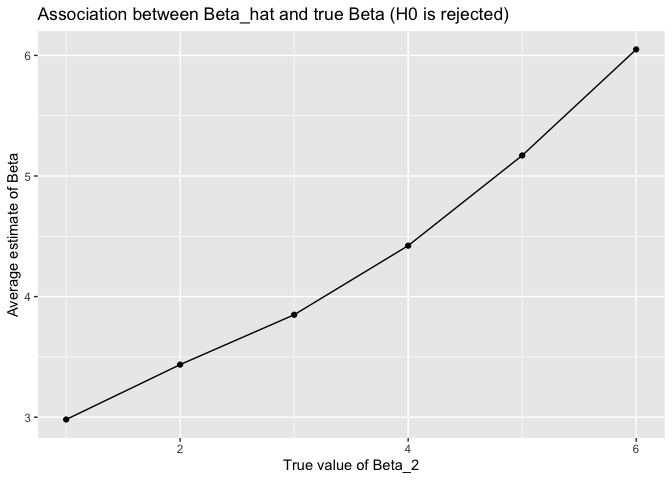
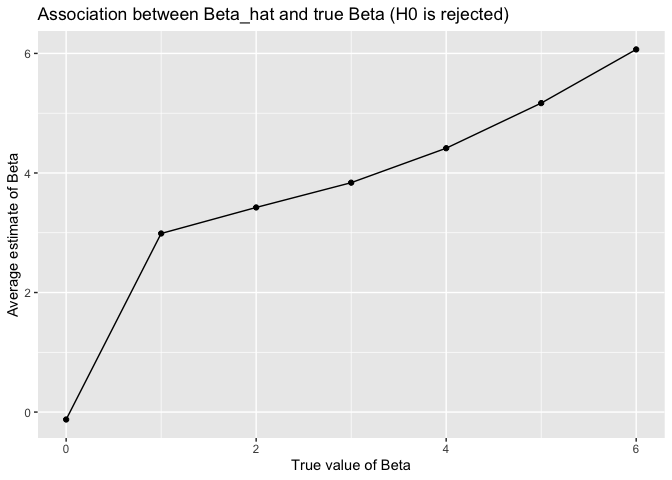
including true beta value of 0 in the second simulation results, updating plots and descriptions, changing values for when H0 is rejected to <0.05

diff --git a/hw5_jo2570.md b/hw5_jo2570.md
@@ -30,7 +30,24 @@ return(x)
 }
 
 iris_with_missing = map_df(iris_with_missing, replace_values)
+
+iris_with_missing
 ```
+
+    ## # A tibble: 150 x 5
+    ##    sepal_length sepal_width petal_length petal_width species
+    ##           <dbl>       <dbl>        <dbl>       <dbl> <chr>  
+    ##  1          5.1         3.5          1.4         0.2 setosa 
+    ##  2          4.9         3            1.4         0.2 setosa 
+    ##  3          4.7         3.2          1.3         0.2 setosa 
+    ##  4          4.6         3.1          1.5         1   setosa 
+    ##  5          5           3.6          1.4         0.2 setosa 
+    ##  6          5.4         3.9          1.7         0.4 setosa 
+    ##  7          6           3.4          1.4         0.3 setosa 
+    ##  8          5           3.4          1.5         0.2 setosa 
+    ##  9          4.4         2.9          1.4         0.2 setosa 
+    ## 10          4.9         3.1          4           0.1 setosa 
+    ## # … with 140 more rows
 
 Problem 2:
 
@@ -113,11 +130,11 @@ sim_results
     ## 10  2.35      0.131
     ## # … with 9,990 more rows
 
-Repeating the step above for beta1 = 1, 2, 3, 4, 5, 6:
+Repeating the step above for beta1 = 0 and 1, 2, 3, 4, 5, 6:
 
 ``` r
 sim_results_2 = 
-  tibble(b1_2 = c(1,2,3,4,5,6)) %>% 
+  tibble(b1_2 = c(0,1,2,3,4,5,6)) %>% 
   mutate(
     output_lists = map(.x = b1_2, ~rerun(10000, sim_regression(b1 = .x))),
     estimate_dfs = map(output_lists, bind_rows)) %>% 
@@ -127,37 +144,38 @@ sim_results_2 =
 sim_results_2
 ```
 
-    ## # A tibble: 60,000 x 3
+    ## # A tibble: 70,000 x 3
     ##     b1_2  b1_hat p_value
     ##    <dbl>   <dbl>   <dbl>
-    ##  1     1  3.03    0.0247
-    ##  2     1  1.39    0.295 
-    ##  3     1  1.93    0.103 
-    ##  4     1  0.0151  0.990 
-    ##  5     1  0.111   0.944 
-    ##  6     1 -1.24    0.366 
-    ##  7     1  1.02    0.301 
-    ##  8     1  1.82    0.223 
-    ##  9     1  2.35    0.0765
-    ## 10     1  2.46    0.0966
-    ## # … with 59,990 more rows
+    ##  1     0  2.03     0.123
+    ##  2     0  0.390    0.767
+    ##  3     0  0.930    0.423
+    ##  4     0 -0.985    0.411
+    ##  5     0 -0.889    0.575
+    ##  6     0 -2.24     0.108
+    ##  7     0  0.0163   0.987
+    ##  8     0  0.819    0.579
+    ##  9     0  1.35     0.299
+    ## 10     0  1.46     0.317
+    ## # … with 69,990 more rows
 
 ``` r
 sim_results_2 %>% 
    mutate(
     p_value = as.numeric(case_when(
-      p_value <= 0.05 ~ "1",
-      p_value > 0.05 ~ "0"))) %>% 
+      p_value < 0.05 ~ "1",
+      p_value >= 0.05 ~ "0"))) %>% 
   group_by(b1_2) %>% 
   summarise(prop = mean(p_value)) %>%
-  ggplot(aes(x = b1_2, y = prop)) + geom_point() + geom_line() + labs(title = "Association between effect size and power", x = "True value of Beta_2", y = "Power of the test")
+  ggplot(aes(x = b1_2, y = prop)) + geom_point() + geom_line() + labs(title = "Association between effect size and power", x = "True value of Beta", y = "Power of the test")
 ```
 
 ![](hw5_jo2570_files/figure-gfm/unnamed-chunk-8-1.png)<!-- -->
 
 We see above that as the true value of beta increases, the proportion of
 times the null was rejected increases showing that as effect size
-increases the power of the test increases.
+increases the power of the test increases. The shape ofbthe graph is
+sigmoidal, but still shows a monotonic positive relationship.
 
 Creating a plot showing the association between average estimate of Beta
 and true Beta:
@@ -171,20 +189,27 @@ sim_results_2 %>%
 
 ![](hw5_jo2570_files/figure-gfm/unnamed-chunk-9-1.png)<!-- -->
 
+We see that when all values are included for the estimates value of beta
+and the true value have a perfectly positive linear relationship.
+
 Creating a plot showing the association between average estimate of Beta
 and true Beta only for values where the null is rejected:
 
 ``` r
 sim_results_2 %>%
-  filter(p_value <= 0.05) %>% 
+  filter(p_value < 0.05) %>% 
   group_by(b1_2) %>% 
   summarise(prop = mean(b1_hat)) %>%
-  ggplot(aes(x = b1_2, y = prop)) + geom_point() + geom_line() + labs(title = "Association between Beta_hat and true Beta (H0 is rejected)", x = "True value of Beta_2", y = "Average estimate of Beta")
+  ggplot(aes(x = b1_2, y = prop)) + geom_point() + geom_line() + labs(title = "Association between Beta_hat and true Beta (H0 is rejected)", x = "True value of Beta", y = "Average estimate of Beta")
 ```
 
 ![](hw5_jo2570_files/figure-gfm/unnamed-chunk-10-1.png)<!-- -->
 
 We see that the average estimates of beta for values where H0 is
-rejected are not approximately equal to the true values of beta - the
-values start quite different, but get closer (more equal) as the true
-value of beta increases.
+rejected (p\_value \< 0.05) are not approximately equal to the true
+values of beta - the values are equal at True Beta = 0, but start to
+deviate as the true value appraches 1, the deviation is greatest at one
+and the values get closer (more equal) as the true value of beta
+increases past 1. One could say that the estimated values are over
+estimated for all values excepet 0 and the overestimation decreases
+until we reach a true value of 6 where they are once again equal.
